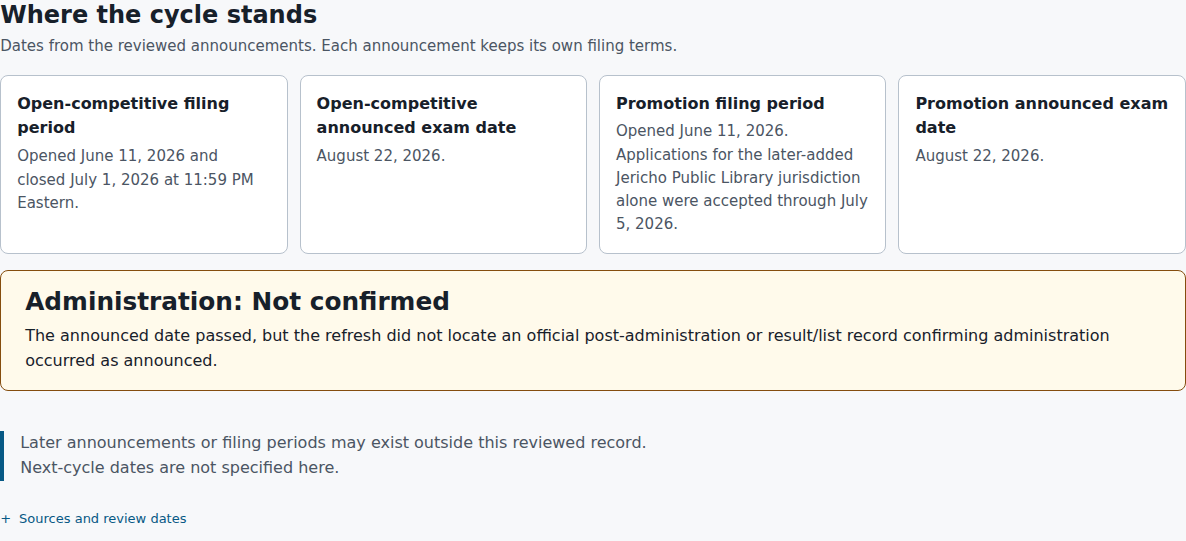
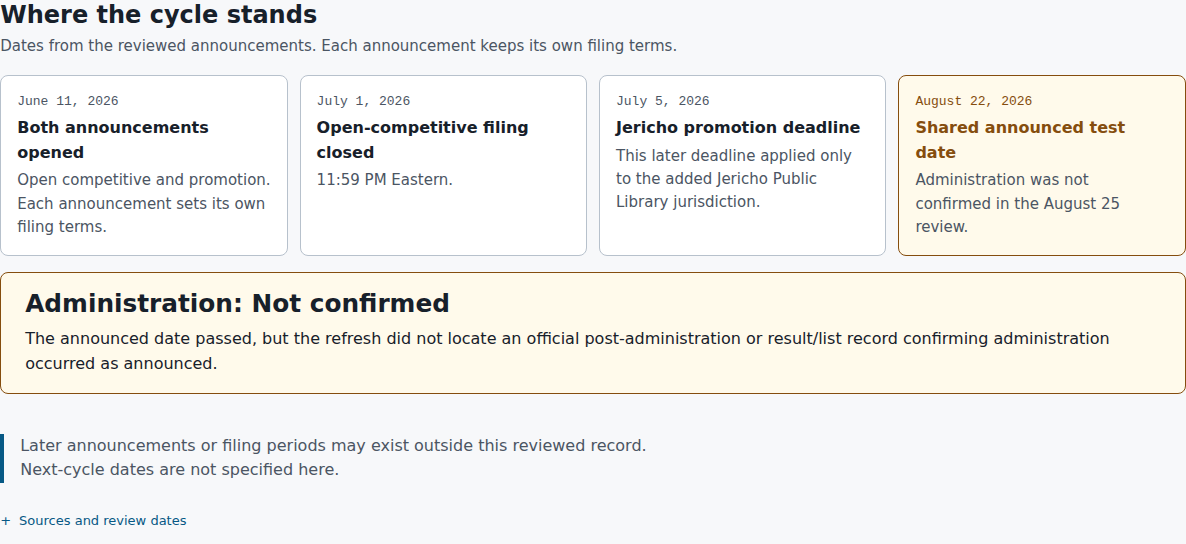
Reconcile reviewed exam milestones and compact navigation clearance

diff --git a/apps/site/scripts/generate-pages.tsx b/apps/site/scripts/generate-pages.tsx
@@ -1,3 +1,4 @@
+import { resolveAnnouncementTimeline } from "./announcement-timeline.ts"
 import historicalV3 from "../../../content/authoring/compatibility/launch-v1-v3-review.json"
 import { resolveFilingStatusReviews } from "./filing-status.ts"
 import { setupDestinations } from "../src/practice/setup-navigation.ts"
@@ -396,13 +397,15 @@ export const renderAnnouncementMilestones = (
     <details class="home-cycle-evidence"><summary>Sources and review dates</summary>${sourceProofLine(lineIds, evidence.map((fact) => fact.reviewedOn), sourceLineById, sourceById)}${sourceLineLinks(lineIds, sourceLineById, sourceById)}</details>
   </section>`
   if (sectionId === "exams-cycle") {
-    const notices = administration.map((fact) => `<aside class="notice ${fact.state === "unverified" || fact.state === "conflicting" ? "notice-warning" : "notice-neutral"}" data-administration-state="${fact.state}"><h3>${fact.state === "unverified" ? "Administration: Not confirmed" : escapeHtml(fact.label)}</h3><p>${escapeHtml(fact.value ?? fact.detail ?? "No administration value is asserted in this record.")}</p>${fact.conflictingValues.length === 0 ? "" : `<ul>${fact.conflictingValues.map((value) => `<li>${escapeHtml(value.value)}</li>`).join("")}</ul>`}</aside>`).join("")
+    const timeline = resolveAnnouncementTimeline(facts)
+    const caveat = "Later announcements or filing periods may exist outside this reviewed record. Next-cycle dates are not specified here."
+    const notices = (includeCaveat: boolean) => administration.map((fact) => `<aside class="notice ${fact.state === "unverified" || fact.state === "conflicting" ? "notice-warning" : "notice-neutral"}" data-administration-state="${fact.state}"><h3>${fact.state === "unverified" ? "Administration: Not confirmed" : escapeHtml(fact.label)}</h3><p>${escapeHtml(fact.value ?? fact.detail ?? "No administration value is asserted in this record.")}</p>${fact.conflictingValues.length === 0 ? "" : `<ul>${fact.conflictingValues.map((value) => `<li>${escapeHtml(value.value)}</li>`).join("")}</ul>`}${includeCaveat ? `<p>${caveat}</p>` : ""}</aside>`).join("")
     return `<section class="home-section announcement-cycle exams-cycle-summary" id="exams-cycle" aria-labelledby="exams-cycle-heading">
       <div class="section-header"><h2 id="exams-cycle-heading">Where the cycle stands</h2><p>Dates from the reviewed announcements. Each announcement keeps its own filing terms.</p></div>
-      <div class="exams-cycle-compact">${notices}</div>
-      ${milestones.length === 0 ? "" : `<ol class="timeline">${milestones.map((fact) => `<li><strong>${escapeHtml(fact.label)}</strong><p class="timeline-note">${escapeHtml(fact.value as string)}</p></li>`).join("")}</ol>`}
-      <div class="exams-cycle-ample">${notices}</div>
-      <p class="source-note">Later announcements or filing periods may exist outside this reviewed record. Next-cycle dates are not specified here.</p>
+      <div class="exams-cycle-compact">${notices(true)}</div>
+      <ol class="timeline">${timeline.map(entry => `<li class="timeline-item-${entry.kind}${entry.tone === "warning" ? ' timeline-item-warning' : ""}"><time class="timeline-date" datetime="${entry.date}"><span class="timeline-ample">${escapeHtml(publicDate(entry.date))}</span><span class="timeline-compact">${escapeHtml(publicDate(entry.date).replace(/, \d{4}$/, ""))}</span></time><strong><span class="timeline-ample">${escapeHtml(entry.label)}</span><span class="timeline-compact">${escapeHtml(entry.compactLabel)}</span></strong><p class="timeline-note">${escapeHtml(entry.note)}</p></li>`).join("")}</ol>
+      <div class="exams-cycle-ample">${notices(false)}</div>
+      <p class="source-note${administration.length === 0 ? "" : " exams-cycle-caveat"}">${caveat}</p>
       <details class="home-cycle-evidence"><summary>Sources and review dates</summary>${sourceProofLine(lineIds, evidence.map((fact) => fact.reviewedOn), sourceLineById, sourceById)}${sourceLineLinks(lineIds, sourceLineById, sourceById)}</details>
     </section>`
   }

diff --git a/apps/site/scripts/announcement-timeline.ts b/apps/site/scripts/announcement-timeline.ts
@@ -1,0 +1,46 @@
+import { createHash } from "node:crypto"
+import { Schema } from "effect"
+import type { CatalogArtifact } from "@nycustodian/content/model"
+import timeline from "../../../content/authoring/announcement-timeline.json"
+
+type Fact = NonNullable<(typeof CatalogArtifact.Type)["profiles"][number]["announcementFactSheet"]>["facts"][number]
+const Timeline = Schema.Struct({
+  schemaVersion: Schema.Literal(1),
+  entries: Schema.NonEmptyArray(Schema.Struct({
+    date: Schema.String.check(Schema.isPattern(/^\d{4}-\d{2}-\d{2}$/)),
+    label: Schema.NonEmptyString,
+    compactLabel: Schema.NonEmptyString,
+    kind: Schema.Literals(["opening", "filing-close", "exam-date"]),
+    note: Schema.NonEmptyString,
+    tone: Schema.Literals(["neutral", "warning"]),
+    facts: Schema.NonEmptyArray(Schema.Struct({ id: Schema.NonEmptyString, sha256: Schema.String.check(Schema.isPattern(/^[a-f0-9]{64}$/)) }))
+  }))
+})
+
+export const timelineFactDigest = (fact: Fact): string => createHash("sha256").update(JSON.stringify([
+  fact.id, fact.category, fact.label, fact.state, fact.value, fact.detail,
+  fact.reviewedOn, [...fact.appliesToExamNumbers].sort(), [...fact.sourceLineIds].sort()
+])).digest("hex")
+
+// Explicit presentation entries are reviewed against exact fact prose; dates
+// and jurisdiction-specific deadlines are never guessed by parsing that prose.
+export const resolveAnnouncementTimeline = (facts: readonly Fact[], input: unknown = timeline) => {
+  const decoded = Schema.decodeUnknownSync(Timeline, { onExcessProperty: "error" })(input)
+  const referenced = new Set<string>()
+  for (const entry of decoded.entries) {
+    if (!Number.isFinite(Date.parse(entry.date)) || new Date(entry.date).toISOString().slice(0, 10) !== entry.date) throw new Error("Invalid announcement timeline date")
+    for (const reference of entry.facts) {
+      const matches = facts.filter(fact => fact.id === reference.id)
+      const fact = matches[0]
+      if (matches.length !== 1 || fact === undefined || timelineFactDigest(fact) !== reference.sha256) {
+        throw new Error(`Stale or ambiguous announcement timeline fact: ${reference.id}`)
+      }
+      referenced.add(reference.id)
+    }
+  }
+  if (facts.some(fact => ["filing_period", "exam_date", "administration_status"].includes(fact.category) &&
+    fact.state !== "superseded" && !referenced.has(fact.id))) {
+    throw new Error("Announcement timeline omits a current date or administration fact")
+  }
+  return decoded.entries
+}

diff --git a/apps/site/test/announcement-timeline.test.ts b/apps/site/test/announcement-timeline.test.ts
@@ -1,0 +1,28 @@
+import { describe, expect, it } from "vitest"
+import catalog from "../../../content/releases/vertical-slice/catalog.json"
+import timeline from "../../../content/authoring/announcement-timeline.json"
+import { resolveAnnouncementTimeline } from "../scripts/announcement-timeline.ts"
+const facts = catalog.profiles.flatMap(profile => profile.announcementFactSheet?.facts ?? []) as Parameters<typeof resolveAnnouncementTimeline>[0]
+
+describe("reviewed announcement timeline", () => {
+  it("consolidates the shared date and preserves the scoped promotion deadline", () => {
+    const entries = resolveAnnouncementTimeline(facts)
+    expect(entries.map(entry => entry.date)).toEqual(["2026-06-11", "2026-07-01", "2026-07-05", "2026-08-22"])
+    expect(entries[2]?.note).toContain("only")
+    expect(entries[2]?.compactLabel).toContain("Jericho only")
+    expect(entries[3]?.facts.map(fact => fact.id)).toEqual(["oc-exam-date", "promo-exam-date", "administration-status"])
+    expect(entries[3]?.compactLabel).toContain("not confirmed held")
+  })
+  it("fails closed when deadline prose, scope, review date, or administration evidence changes", () => {
+    for (const change of [{ value: "A different deadline" }, { appliesToExamNumbers: ["different"] }, { reviewedOn: "2026-09-09" }]) {
+      expect(() => resolveAnnouncementTimeline(facts.map(fact => fact.id === "promo-filing-period" ? { ...fact, ...change } : fact))).toThrow(/Stale/)
+    }
+    expect(() => resolveAnnouncementTimeline(facts.map(fact => fact.id === "administration-status" ? { ...fact, detail: "Administration confirmed" } : fact))).toThrow(/Stale/)
+  })
+  it("rejects omitted or ambiguous facts and invalid authored dates", () => {
+    expect(() => resolveAnnouncementTimeline(facts.filter(fact => fact.id !== "oc-exam-date"))).toThrow(/Stale|ambiguous/)
+    expect(() => resolveAnnouncementTimeline([...facts, facts.find(fact => fact.id === "oc-exam-date")!])).toThrow(/ambiguous/)
+    expect(() => resolveAnnouncementTimeline(facts, { ...timeline, entries: timeline.entries.slice(0, 3) })).toThrow(/omits/)
+    expect(() => resolveAnnouncementTimeline(facts, { ...timeline, entries: timeline.entries.map(entry => ({ ...entry, date: "2026-02-31" })) })).toThrow(/Invalid.*date/)
+  })
+})

diff --git a/apps/site/src/design-system.css b/apps/site/src/design-system.css
@@ -884,6 +884,7 @@
   .home-scope-row h3, .task-card h3 { font-size: 1.0625rem; }
   :is([data-route-id="home"], [data-route-id="study-hub"], [data-route-id="review-queue"]) .site-footer-prominent { margin: 0 max(2.5rem, calc((100% - 80rem) / 2)) 2.75rem; border-radius: 0.5rem; }
   @media (max-width: 47.99rem) {
+    html:has(.nav-primary) { scroll-padding-block-end: calc(4.75rem + env(safe-area-inset-bottom)); }
     body:has(.nav-primary) { padding-block-end: calc(3.75rem + env(safe-area-inset-bottom)); }
     .site-header-inner { min-block-size: 3.25rem; padding: 0; }
     .site-header-inner > .brand { font-size: 0.9375rem; }
@@ -1067,3 +1068,28 @@
 }
 
 @layer components { .print-question-image { display: block; width: 100%; max-width: 3.5in; max-height: 3.5in; object-fit: contain; margin-block: 1rem; break-inside: avoid; } }
+
+
+@layer overrides {
+  .exams-cycle-summary .timeline-compact { display: none; }
+  @media (max-width: 47.99rem) {
+    .exams-cycle-summary .timeline-ample,
+    .exams-cycle-summary .timeline-note,
+    .exams-cycle-summary .timeline > .timeline-item-opening { display: none; }
+    .exams-cycle-summary .timeline-compact { display: inline; }
+    .exams-cycle-summary .timeline > li { grid-template-columns: minmax(0, 1fr) max-content; align-items: baseline; gap: var(--space-3); }
+    .exams-cycle-summary .timeline time { grid-column: 2; grid-row: 1; white-space: nowrap; }
+    .exams-cycle-summary .timeline strong { grid-column: 1; grid-row: 1; font-size: var(--text-sm); }
+  }
+}
+
+@layer overrides {
+  @media (max-width: 47.99rem) {
+    .exams-cycle-summary .exams-cycle-caveat { display: none; }
+    .exams-cycle-summary .notice h3 { font-size: 0.9375rem; }
+    .exams-cycle-summary .timeline > li { padding: 0.625rem 0.875rem; }
+    .exams-cycle-summary .timeline strong { font-size: 0.875rem; font-weight: 400; }
+    .exams-cycle-summary .timeline > .timeline-item-warning { background: var(--color-surface); }
+    .exams-cycle-summary .timeline-item-warning time { font-weight: 700; }
+  }
+}

diff --git a/apps/site/browser-tests/design-handoff.pw.ts b/apps/site/browser-tests/design-handoff.pw.ts
@@ -213,6 +213,9 @@ test("exam cycle keeps the responsive reading order and sources without JavaScri
       await page.setViewportSize({ width, height: 900 })
       await page.goto("/exams/")
       const cycle = page.locator("#exams-cycle")
+      await expect(cycle.locator(".timeline > li:visible")).toHaveCount(width === 384 ? 3 : 4)
+      await expect(cycle.locator('.timeline time[datetime="2026-08-22"]')).toHaveCount(1)
+      await expect(cycle.locator('.timeline time[datetime="2026-07-05"]').locator("..")).toContainText(/Jericho/)
       const notice = cycle.locator("[data-administration-state]:visible")
       await expect(notice).toHaveCount(1)
       const noticeBox = await notice.boundingBox()

diff --git a/design-review/2026-09-07/IMPLEMENTATION-STATUS.md b/design-review/2026-09-07/IMPLEMENTATION-STATUS.md
@@ -14,7 +14,7 @@ The active task is the complete handoff in `/mnt/models/dev/nycustodianexam/IMPL
 | Hazard player | HAZARD-PLAYER-REVIEW.md: responsive workspace, header/save panel, nine real-state captures and nine regression tests | Visual/keyboard layout, integrated retained-image overlay, correction/safe groups and compact recovery captured; final cross-browser and matching-width visual audit remain |
 | Simulation player/results | SIMULATION-NAVIGATOR-REVIEW.md and SIMULATION-FLOW-REVIEW.md: navigator, player/timer and question-result captures at 1008/384; restore/focus checks; 24 three-browser regressions pass | Visual/keyboard hazard player/results now captured at both widths; no-concerns target corrected and six three-browser hazard regressions pass; final integrated audit and separate Static Assets check remain |
 | Print configuration | Ten products and effective controls; reviewed document scope | PRINT-OUTPUT-REVIEW.md: actual Letter/A4 question PDFs and searchable-text fix; preview rows/actions and warning/error panels reconciled; twelve ready/recovery captures and 27 three-browser print checks pass; fresh Letter/A4 PDFs retain searchable text; all 45 extended large-print/tool PDF pages audited and grid-fragmentation overlap fixed; current PDFs and per-page verification retained; 42 hazard worksheet/answer/text PDF pages audited with pagination fixes; large-print heading/URL sizing fixed with fresh PDF evidence; source-inclusive hazard estimates now finalize from assembled content; final other-product PDF refresh remains |
-| Exams / Settings / Offline / report | UTILITY-PAGES-REVIEW.md: first-visit desktop/compact captures, Settings action layout/Offline grouping and recovery checks | Delete preview cancellation/captures verified; returning saved-work counts and Offline installed summaries now use actual storage with empty/unavailable captures; export contents scope is disclosed; Exams header/compact cards and announcement-first ordering reconciled with six three-browser checks and refreshed overview/record captures; cycle responsive order/source disclosure reconciled with 17 generation tests and nine three-browser checks; source-bound filing classifications and combined URL-restored filters implemented with 22 unit and 12 three-browser checks; date-row consolidation, full-page audit and report comparison remain; coverage action and three-browser navigation checks pass; all record/tab states captured; actual Offline active/removal/unavailable states captured |
+| Exams / Settings / Offline / report | UTILITY-PAGES-REVIEW.md: first-visit desktop/compact captures, Settings action layout/Offline grouping and recovery checks | Delete preview cancellation/captures verified; returning saved-work counts and Offline installed summaries now use actual storage with empty/unavailable captures; export contents scope is disclosed; Exams header/compact cards and announcement-first ordering reconciled with six three-browser checks and refreshed overview/record captures; cycle responsive order/source disclosure reconciled with 17 generation tests and nine three-browser checks; source-bound filing classifications and combined URL-restored filters implemented with 22 unit and 12 three-browser checks; date milestones consolidated with bound-source metadata and matching compact rows; full-page audit captured; record-source density, desktop filter arrangement, compact selection prompt, and report comparison remain; coverage action and three-browser navigation checks pass; all record/tab states captured; actual Offline active/removal/unavailable states captured |
 | Final validation/publication | First-slice local commit; next slice in progress | Combined 102 core browser checks yielded 100 passes and two Offline reflow failures; scoped grid fix passes all nine targeted cross-browser checks. Remaining full-family checks, evidence index, clean local commits, reviewable publication; never merge/deploy automatically |
 
 Important discovered content difference: the original 90-question simulation metadata had 30 cleaning, 37 maintenance, 5 safety, and 18 mixed/scenario questions; pack v4 adds one illustrated maintenance item (91 total), not the prototype's 34/26/30. Preserve real classification and counts. Internal session/profile/version references remain required; global exam selection is removed.

diff --git a/design-review/2026-09-07/UTILITY-PAGES-REVIEW.md b/design-review/2026-09-07/UTILITY-PAGES-REVIEW.md
@@ -182,3 +182,50 @@ now records 16 desktop/compact crops, including closed, plan-only, and empty-ope
 filter states. Compact closed cards and desktop empty results were visually inspected;
 that inspection found and corrected the redundant empty-result selection prompt.
 Full-page comparison and source-aware duplicate exam-date consolidation remain.
+
+## Consolidated, source-bound timeline and full-page audit
+
+The Exams timeline now follows the accepted Landing prototype's four desktop
+milestones: June 11 opening, July 1 open-competitive closing, July 5 Jericho-only
+promotion deadline, and one August 22 announced date. Compact layout shows the
+three date rows, retains “Jericho only” and “not confirmed held,” and places the
+review caveat in the compact notice. The desktop date stays warning-colored.
+All original announcement facts and source links remain available.
+
+`content/authoring/announcement-timeline.json` contains explicit presentation
+entries. Dates were read from the released filing/date facts, not inferred from
+null effective-through fields or guessed by prose parsing. Each entry is bound to
+SHA-256 of ordered fact ID, category, label, state, value, detail, review date,
+sorted exam numbers, and sorted source-line IDs. The generator rejects missing,
+ambiguous, changed, or unrepresented date/administration facts and invalid dates.
+The digest detects source drift; this implementation review supplies the editorial
+interpretation. No live filing or administration status is newly asserted.
+
+At 1248px the four timeline cards match the reference's order and hierarchy. At
+384px the three single-line date rows now use 14px normal-weight labels with
+monospaced dates. Capturing this layout exposed a no-JavaScript source-disclosure
+scroll target behind the fixed bottom navigation. Compact root scroll padding
+now reserves that occupied area; the no-JavaScript test passes in all three
+browsers without forced clicks. The source disclosure remains available.
+
+`exams-overview-audit/` now includes full first-visit and record-open pages at
+1248/384 in addition to the timeline, source disclosure, cards, and filter states.
+The cycle crops and full-page captures were visually compared with references
+09/10 and the editable Landing prototype. The capture waits for fonts and two
+paint frames. The fixed bottom bar's position in a full-page bitmap represents
+the initial viewport, not a bar embedded in the document flow.
+
+Remaining full-page differences are explicit: desktop search and filters still
+stack rather than share one row; the record panel repeats per-fact technical
+source disclosures, substantially increasing its height; compact first-visit
+shows an additional choose-an-entry prompt. These remain implementation work.
+Real counts, restrained administration claims, exact jurisdiction restrictions,
+source accessibility, and genuine practice destinations remain intentional
+content differences from prototype fixtures. The timeline change is complete;
+the entire Exams family is not yet declared visually complete.
+
+Validation for timeline/filing generation: 25 unit tests, site/browser typechecks,
+and full build/artifact verification pass. The focused no-JavaScript scroll test
+passes across Chromium, Firefox, and WebKit after the scroll-padding correction.
+The complete shared-navigation/design-handoff browser suite passes after the
+shared scroll-padding change: 54 checks across all three browsers.
